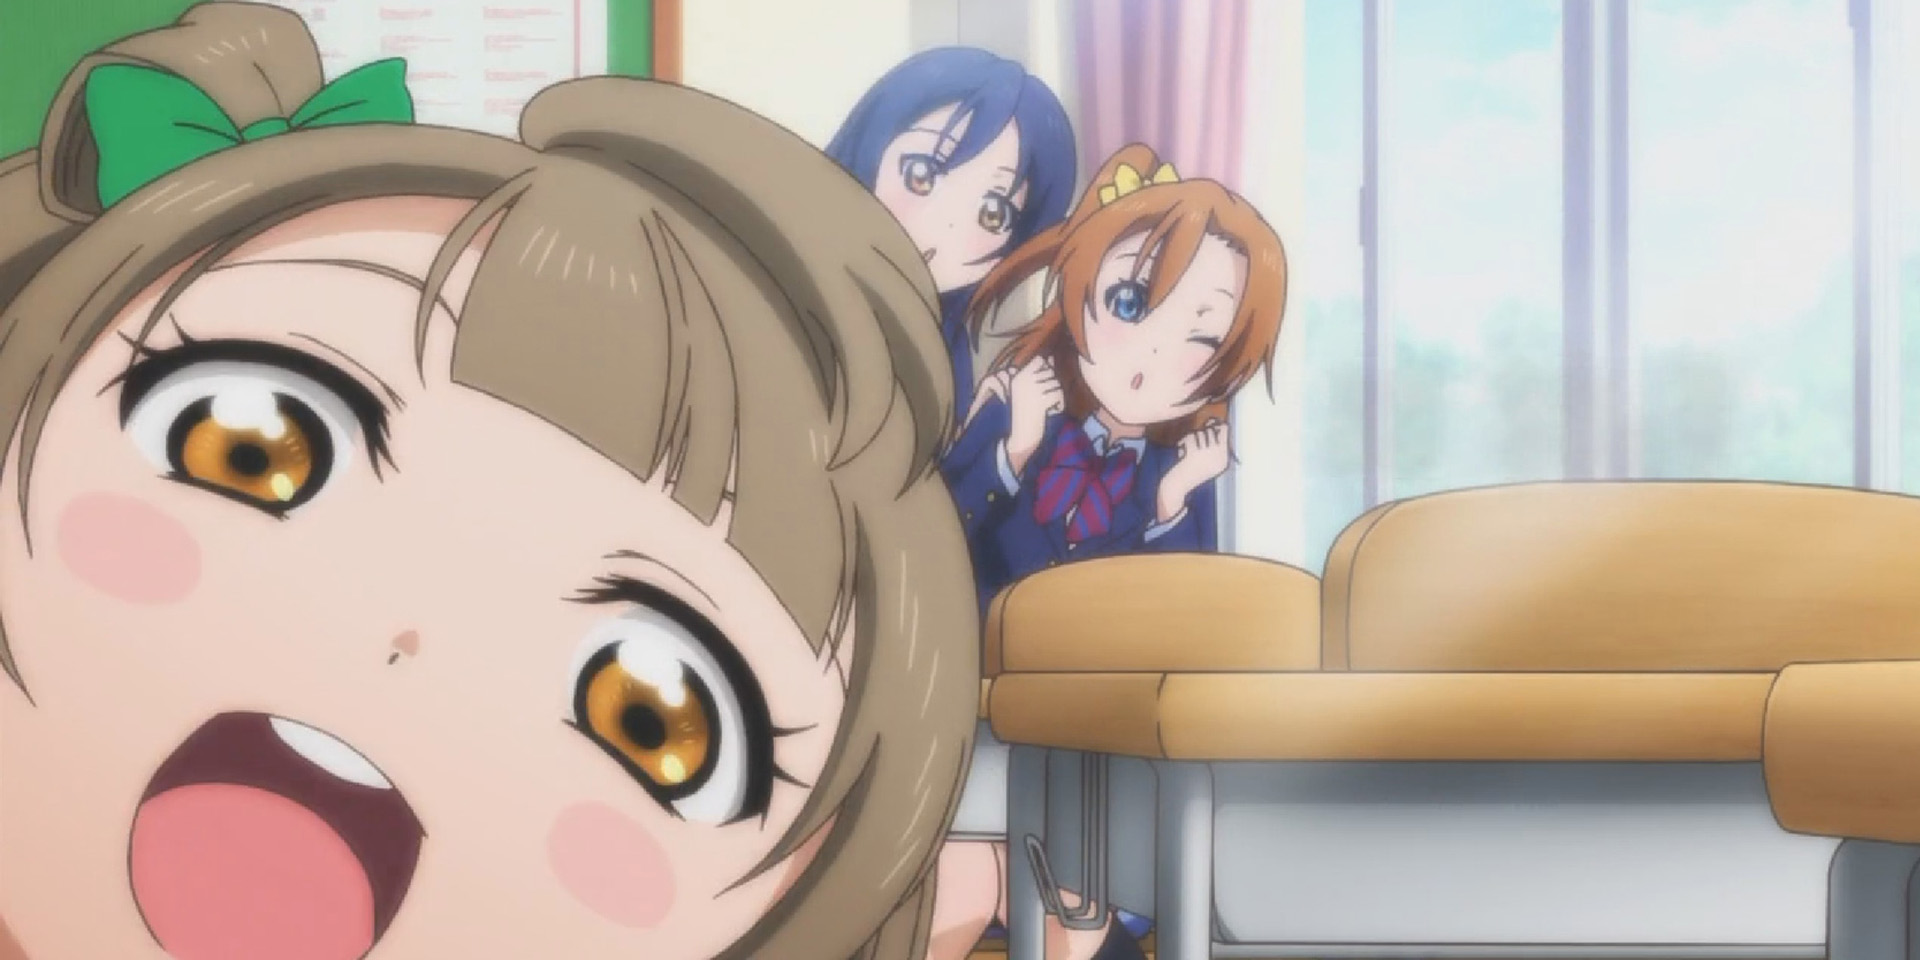
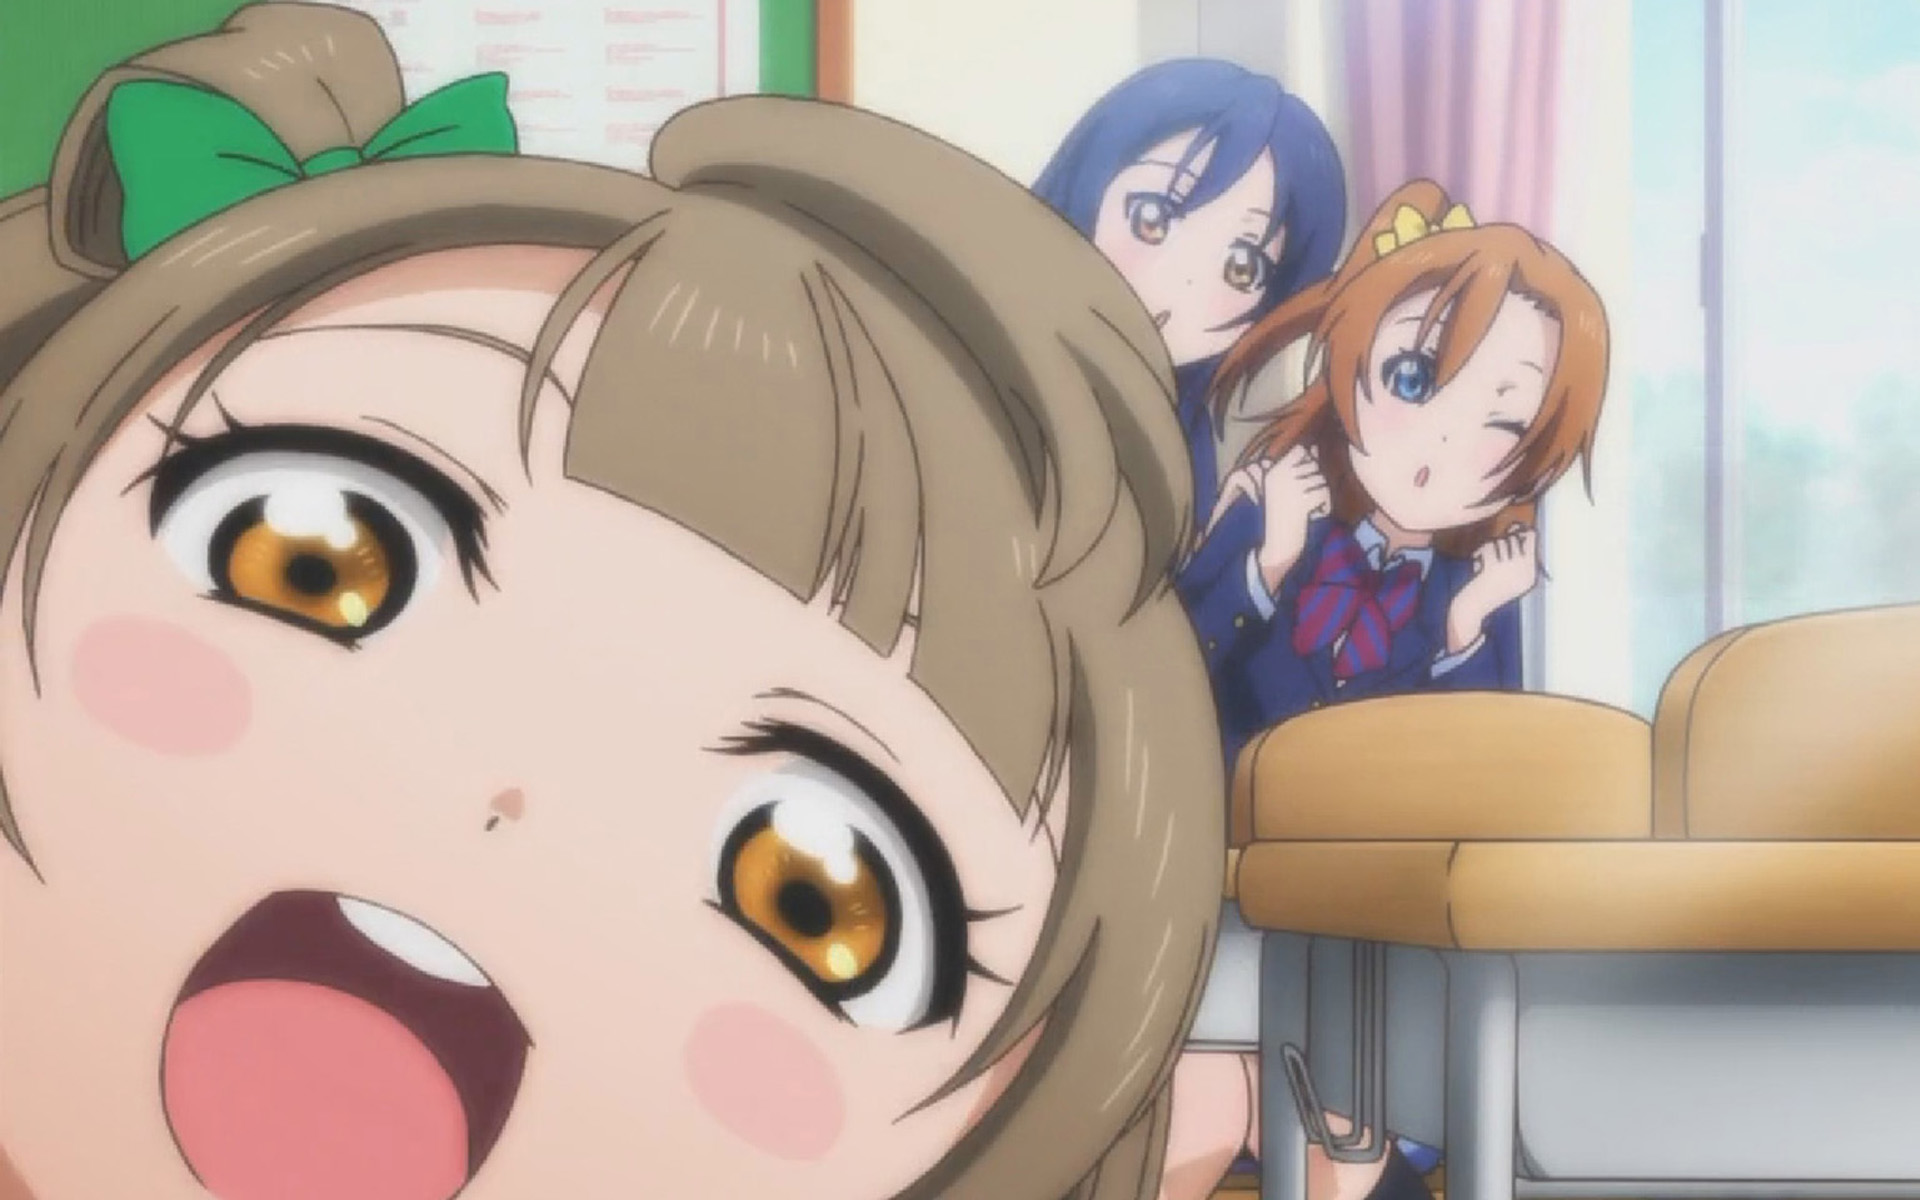
fix nanxiaoniao.jpg

diff --git a/index.html b/index.html
@@ -313,7 +313,7 @@
 </div>
 
 <!--招新板块-->
-<div class="screen" style="top: 500%;background:url('img/nanxiaoniao.jpg');" id="fifthscreen">
+<div class="screen" style="top: 500%;background:url('img/nanxiaoniao.jpg');background-position:bottom left;background-size:100%;" id="fifthscreen">
 	
 <div style="position:absolute;right:140px;width:300px;top:0px;bottom:0px;margin:auto;height:500px;background:rgba(255,255,255,0.7);box-shadow:5px 5px 15px black;">
 	<div style="width:100%;height:100px;"><p style="padding-top:40px;margin:0px;text-align:center;font-size:40px;">招新啦</p></div>
